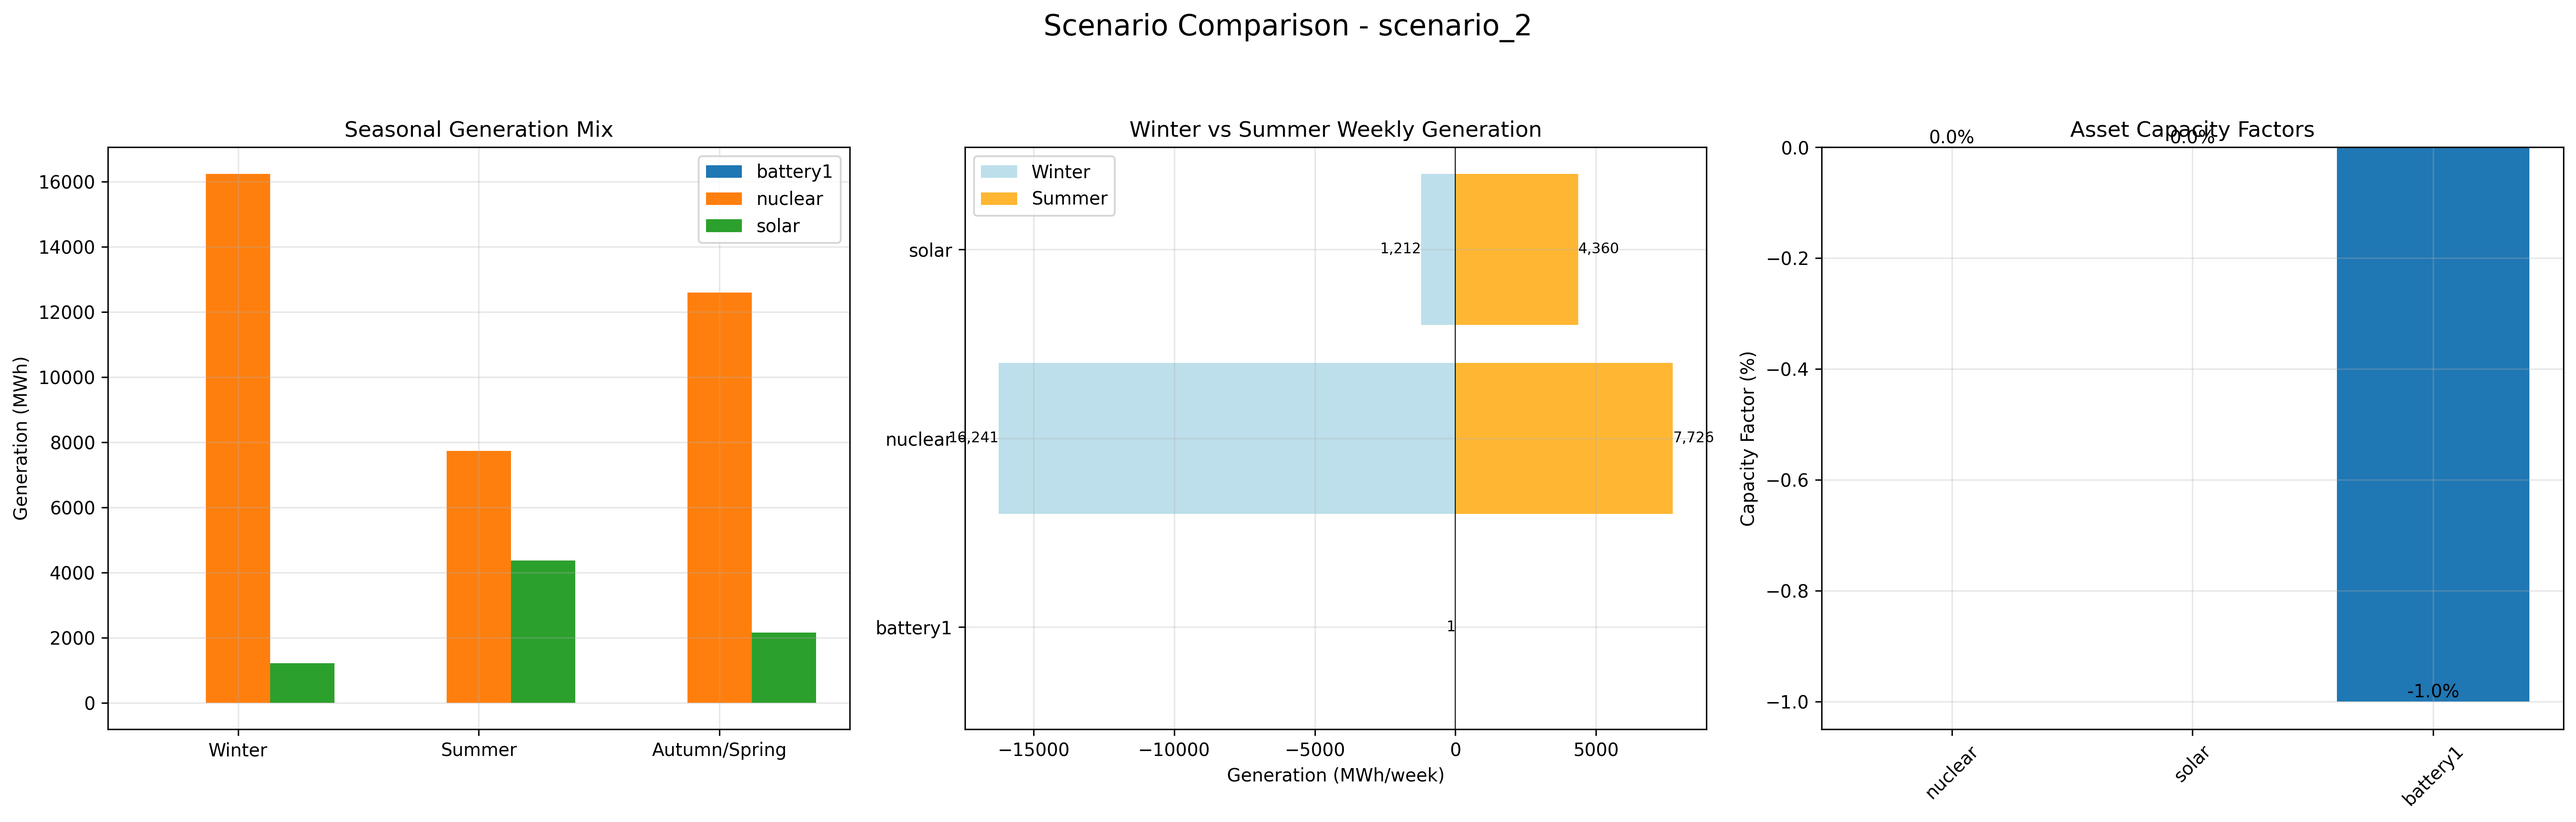
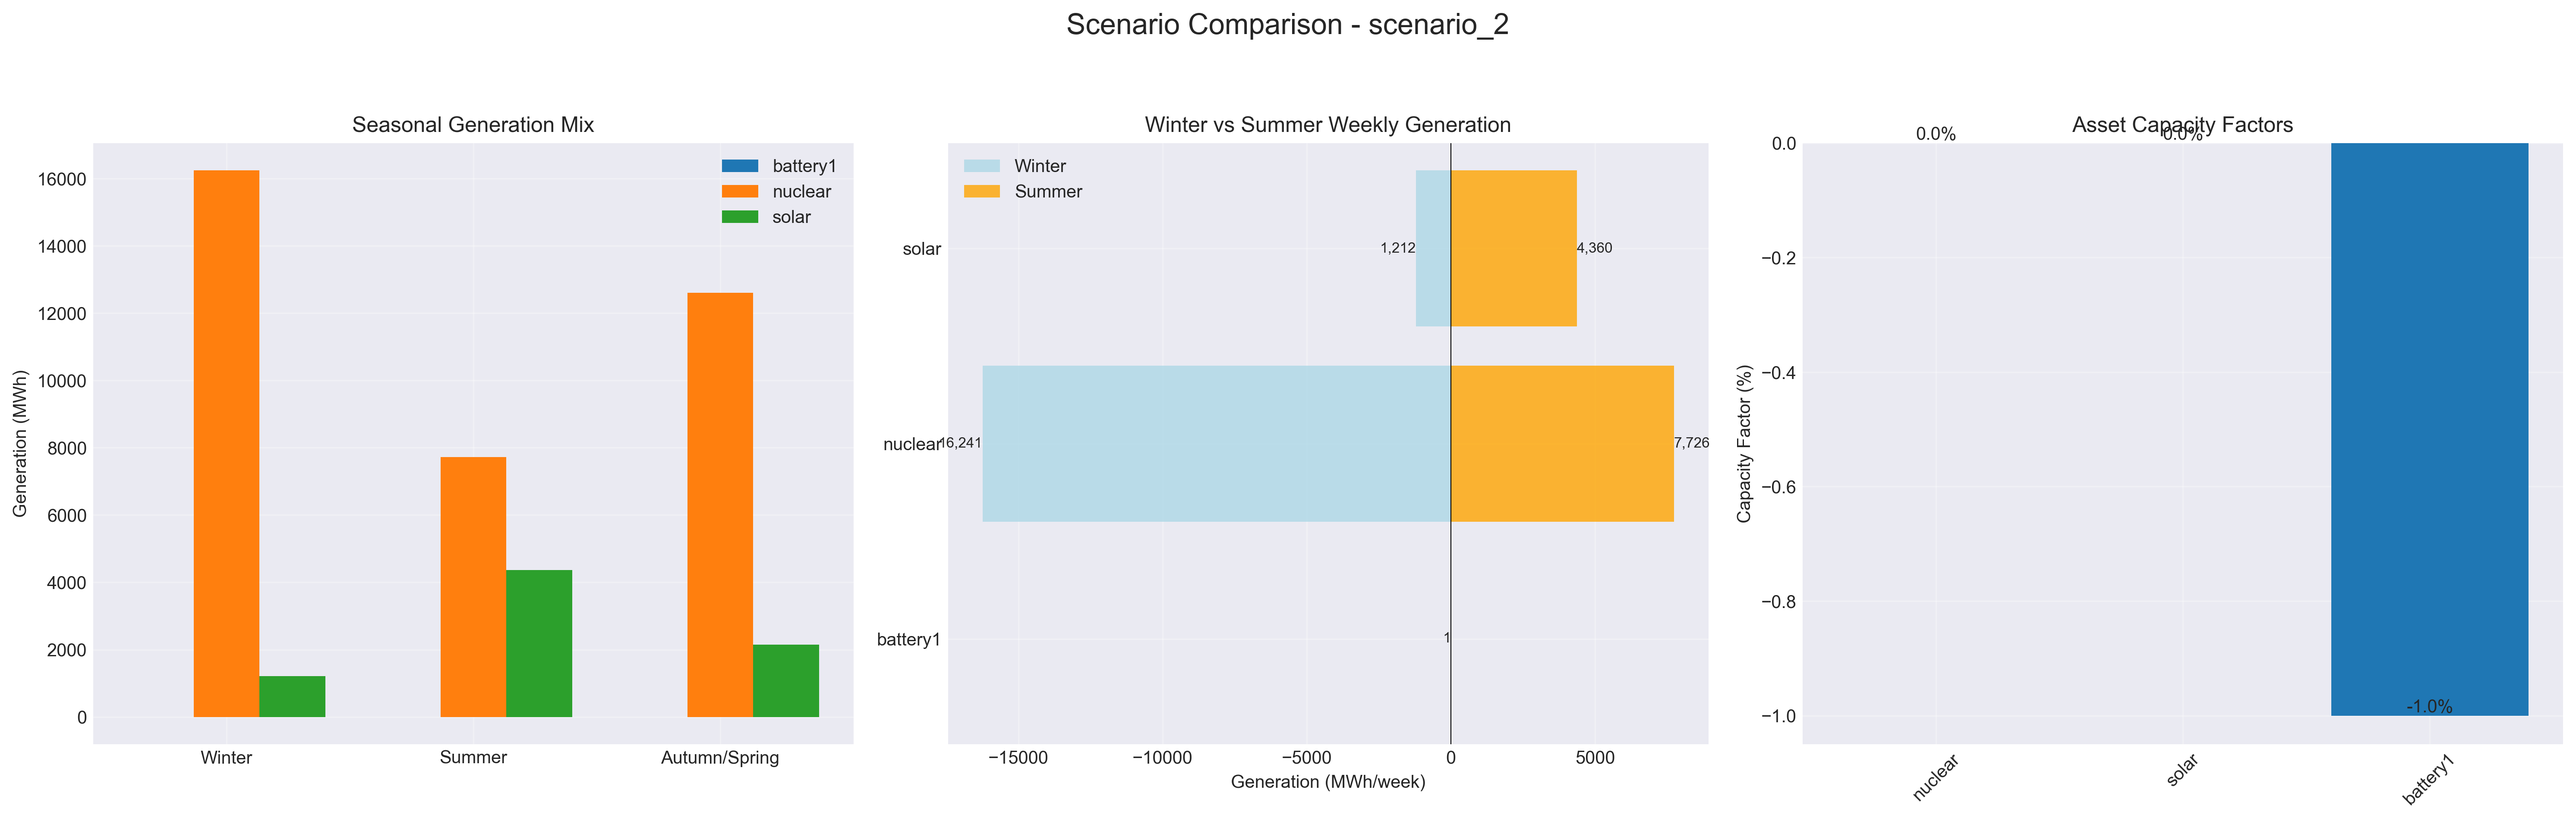
scenario chart improvments

diff --git a/scripts/visualization/summary_plots.py b/scripts/visualization/summary_plots.py
@@ -5,6 +5,24 @@ import matplotlib.pyplot as plt
 import pandas as pd
 import os
 import numpy as np
+import seaborn as sns
+
+# Set the style for all plots
+plt.style.use('seaborn-v0_8-darkgrid')  # Using a valid matplotlib style
+
+# Define a consistent color palette for assets using a softer palette
+ASSET_COLORS = {
+    'nuclear': sns.color_palette("pastel")[0],
+    'wind': sns.color_palette("pastel")[1],
+    'solar': sns.color_palette("pastel")[2],
+    'storage': sns.color_palette("pastel")[3],
+    'gas': sns.color_palette("pastel")[4],
+    'coal': sns.color_palette("pastel")[5],
+    'hydro': sns.color_palette("pastel")[6],
+    'biomass': sns.color_palette("pastel")[7],
+    'battery1': sns.color_palette("pastel")[3],  # Using storage color
+    'battery2': sns.color_palette("pastel")[3]   # Using storage color
+}
 
 def create_annual_summary_plots(scenario_data: dict, results_root: str) -> None:
     """Create annual generation and cost mix plots"""
@@ -25,9 +43,12 @@ def create_annual_summary_plots(scenario_data: dict, results_root: str) -> None:
                          if v and not pd.isna(v)}
         if generation_data:
             total_gen = sum(generation_data.values())
+            colors = [ASSET_COLORS.get(asset, sns.color_palette("pastel")[7]) 
+                     for asset in generation_data.keys()]
             wedges, texts, autotexts = ax1.pie(
                 list(generation_data.values()),
                 labels=list(generation_data.keys()),
+                colors=colors,
                 autopct=lambda pct: f'{pct:.1f}%\n({int(pct/100.*total_gen):,} MWh)',
                 textprops={'fontsize': 8}
             )
@@ -38,95 +59,111 @@ def create_annual_summary_plots(scenario_data: dict, results_root: str) -> None:
                     ha='center', va='center')
     ax1.set_title('Annual Generation Mix')
 
-    # Plot 2: Winter vs Summer Generation Comparison (Tornado Chart)
+    # Plot 2: Winter vs Summer Generation (Tornado Chart)
     winter_gen = scenario_data.get('winter_gen', {})
     summer_gen = scenario_data.get('summer_gen', {})
     
-    print("\nDebug - Seasonal Generation Data:")
-    print(f"Winter generation: {winter_gen}")
-    print(f"Summer generation: {summer_gen}")
-    
     all_assets = sorted(set(winter_gen.keys()) | set(summer_gen.keys()))
-    print(f"All assets found: {all_assets}")
-    
     if all_assets:
         # Create data for tornado chart
-        winter_values = [-winter_gen.get(asset, 0) for asset in all_assets]  # Negative for left side
-        summer_values = [summer_gen.get(asset, 0) for asset in all_assets]   # Positive for right side
+        winter_values = [-winter_gen.get(asset, 0) for asset in all_assets]
+        summer_values = [summer_gen.get(asset, 0) for asset in all_assets]
+        
+        # Find max absolute value for symmetric axis
+        max_val = max(abs(min(winter_values)), abs(max(summer_values)))
+        
+        # Set white background with grey grid
+        ax2.set_facecolor('white')
+        ax2.grid(True, color='grey', alpha=0.3)
         
         # Create horizontal bars
         y_pos = np.arange(len(all_assets))
         
         # Plot winter values (left side)
-        ax2.barh(y_pos, winter_values, 
-                align='center', 
-                color='lightblue',
-                label='Winter', 
-                alpha=0.8)
+        winter_bars = ax2.barh(y_pos, winter_values, 
+                             align='center',
+                             color=[sns.set_hls_values(ASSET_COLORS.get(asset, 'gray'), l=0.8) 
+                                   for asset in all_assets],
+                             label='Winter',
+                             alpha=0.8)
         
         # Plot summer values (right side)
-        ax2.barh(y_pos, summer_values, 
-                align='center', 
-                color='orange',
-                label='Summer', 
-                alpha=0.8)
+        summer_bars = ax2.barh(y_pos, summer_values, 
+                             align='center',
+                             color=[ASSET_COLORS.get(asset, 'gray') for asset in all_assets],
+                             label='Summer',
+                             alpha=0.8)
         
         # Customize plot
         ax2.set_xlabel('Generation (MWh/week)')
         ax2.set_title('Winter vs Summer Weekly Generation')
         ax2.set_yticks(y_pos)
         ax2.set_yticklabels(all_assets)
-        ax2.legend()
-        ax2.grid(True, alpha=0.3)
+        ax2.legend(loc='upper right')
+        
+        # Set symmetric x-axis
+        ax2.set_xlim(-max_val*1.1, max_val*1.1)
         
         # Add zero line
         ax2.axvline(x=0, color='black', linestyle='-', linewidth=0.5)
         
-        # Add value labels
+        # Add value labels at the start of bars
         for i, v in enumerate(winter_values):
             if v != 0:
-                ax2.text(v, i, f'{abs(v):,.0f}', 
+                ax2.text(0, i, f'{abs(v):,.0f}', 
                         ha='right', va='center', fontsize=8)
         for i, v in enumerate(summer_values):
             if v != 0:
-                ax2.text(v, i, f'{v:,.0f}', 
+                ax2.text(0, i, f'{v:,.0f}', 
                         ha='left', va='center', fontsize=8)
-    else:
-        ax2.text(0.5, 0.5, 'No seasonal generation data', 
-                ha='center', va='center')
+        
+        # Add black frame
+        for spine in ax2.spines.values():
+            spine.set_color('black')
+            spine.set_linewidth(1)
 
     # Plot 3: NPV Comparison
     npv_data = {
-        '10y': scenario_data.get('npv_10y', 0),
-        '20y': scenario_data.get('npv_20y', 0),
-        '30y': scenario_data.get('npv_30y', 0)
+        '10y': scenario_data.get('npv_10y', 0) / 1e6,  # Convert to millions
+        '20y': scenario_data.get('npv_20y', 0) / 1e6,
+        '30y': scenario_data.get('npv_30y', 0) / 1e6
     }
     
     npv_data = {k: v for k, v in npv_data.items() if not pd.isna(v)}
     
     if npv_data:
-        bars = ax3.bar(npv_data.keys(), npv_data.values(), 
-                      color=['red' if v < 0 else 'lightgreen' for v in npv_data.values()])
+        # Set white background with grey grid
+        ax3.set_facecolor('white')
+        ax3.grid(True, color='grey', alpha=0.3)
+        
+        # Using pastel colors for NPV
+        colors = [sns.color_palette("pastel")[3] if v < 0 else sns.color_palette("pastel")[2] 
+                 for v in npv_data.values()]
+        bars = ax3.bar(npv_data.keys(), npv_data.values(), color=colors)
         ax3.set_title('Net Present Value (NPV) Comparison')
-        ax3.set_ylabel('NPV (€)')
-        ax3.grid(True, alpha=0.3)
+        ax3.set_ylabel('NPV (Million CHF)')
+        
+        # Add zero line
         ax3.axhline(y=0, color='black', linestyle='-', linewidth=0.5)
         
+        # Add value labels at the base of bars
         for bar in bars:
             height = bar.get_height()
-            va = 'bottom' if height >= 0 else 'top'
+            y_pos = 0  # Position at x-axis
             ax3.text(
                 bar.get_x() + bar.get_width()/2.,
-                height,
-                f'€{height:,.0f}',
+                y_pos,
+                f'{height:,.1f}M',
                 ha='center',
-                va=va,
+                va='bottom' if height >= 0 else 'top',
                 rotation=0,
                 fontsize=8
             )
-    else:
-        ax3.text(0.5, 0.5, 'No valid NPV data', 
-                ha='center', va='center')
+        
+        # Add black frame
+        for spine in ax3.spines.values():
+            spine.set_color('black')
+            spine.set_linewidth(1)
 
     plt.suptitle(f'Annual Summary - {scenario_name}', fontsize=16, y=1.05)
     plt.tight_layout()

diff --git a/scripts/update_readme.py b/scripts/update_readme.py
@@ -58,7 +58,7 @@ This project analyzes different energy system scenarios using DC Optimal Power F
 ### Base Network Structure
 The analysis is built around a base grid topology with two main load buses. This fundamental structure serves as the foundation for all scenario analyses:
 
-![Base Network Topology](figures/base_network_topography.png){width=500}
+<img src="figures/base_network_topography.png" width="500"/>
 
 *The base network defines the core infrastructure upon which different generation scenarios are evaluated.*
 

diff --git a/README.md b/README.md
@@ -6,7 +6,7 @@ This project analyzes different energy system scenarios using DC Optimal Power F
 ### Base Network Structure
 The analysis is built around a base grid topology with two main load buses. This fundamental structure serves as the foundation for all scenario analyses:
 
-![Base Network Topology](figures/base_network_topography.png){width=500}
+<img src="figures/base_network_topography.png" width="500"/>
 
 *The base network defines the core infrastructure upon which different generation scenarios are evaluated.*
 
